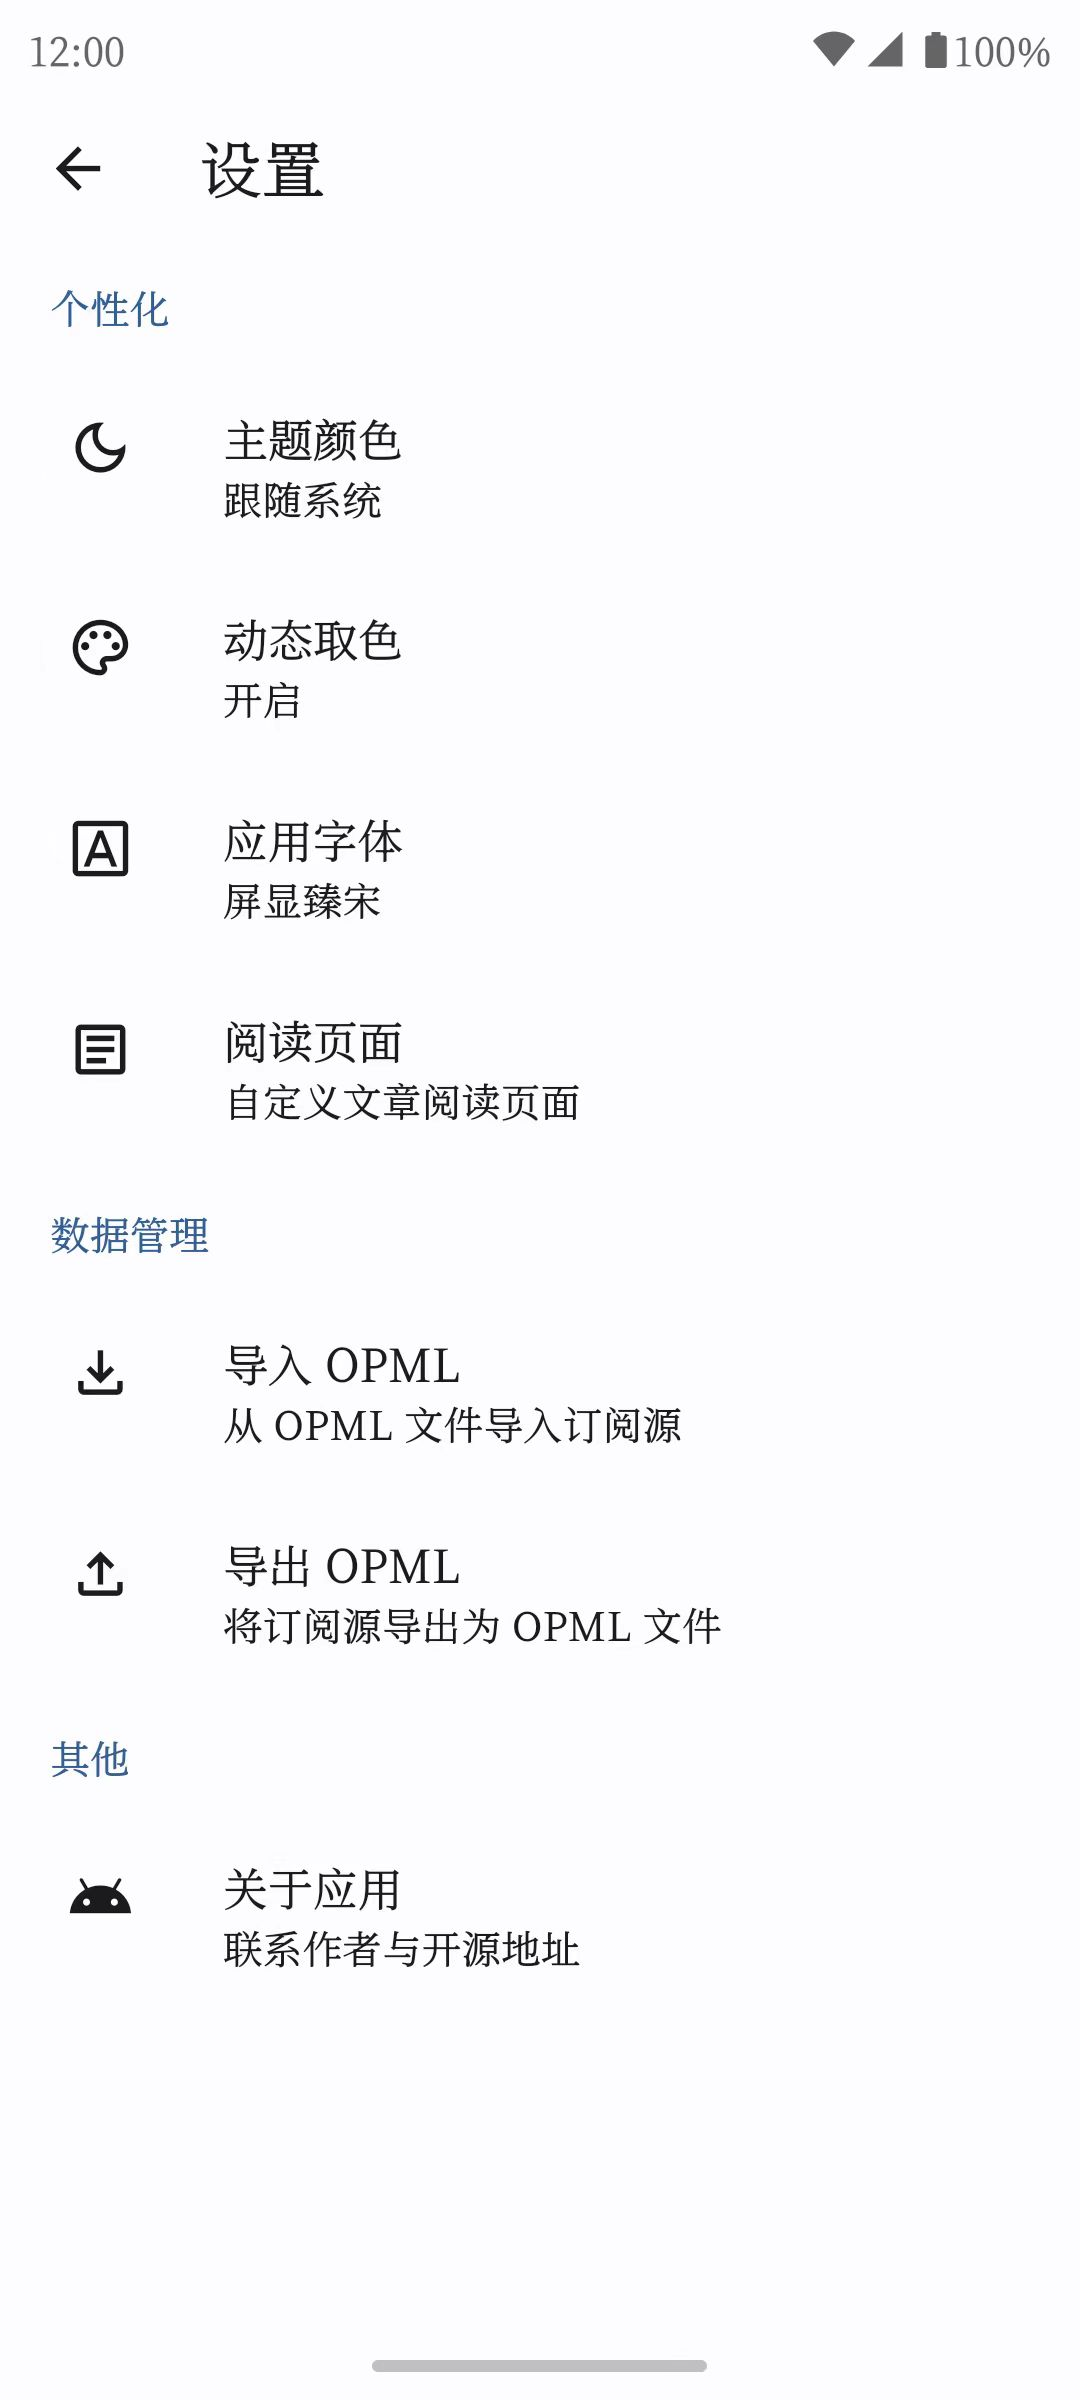
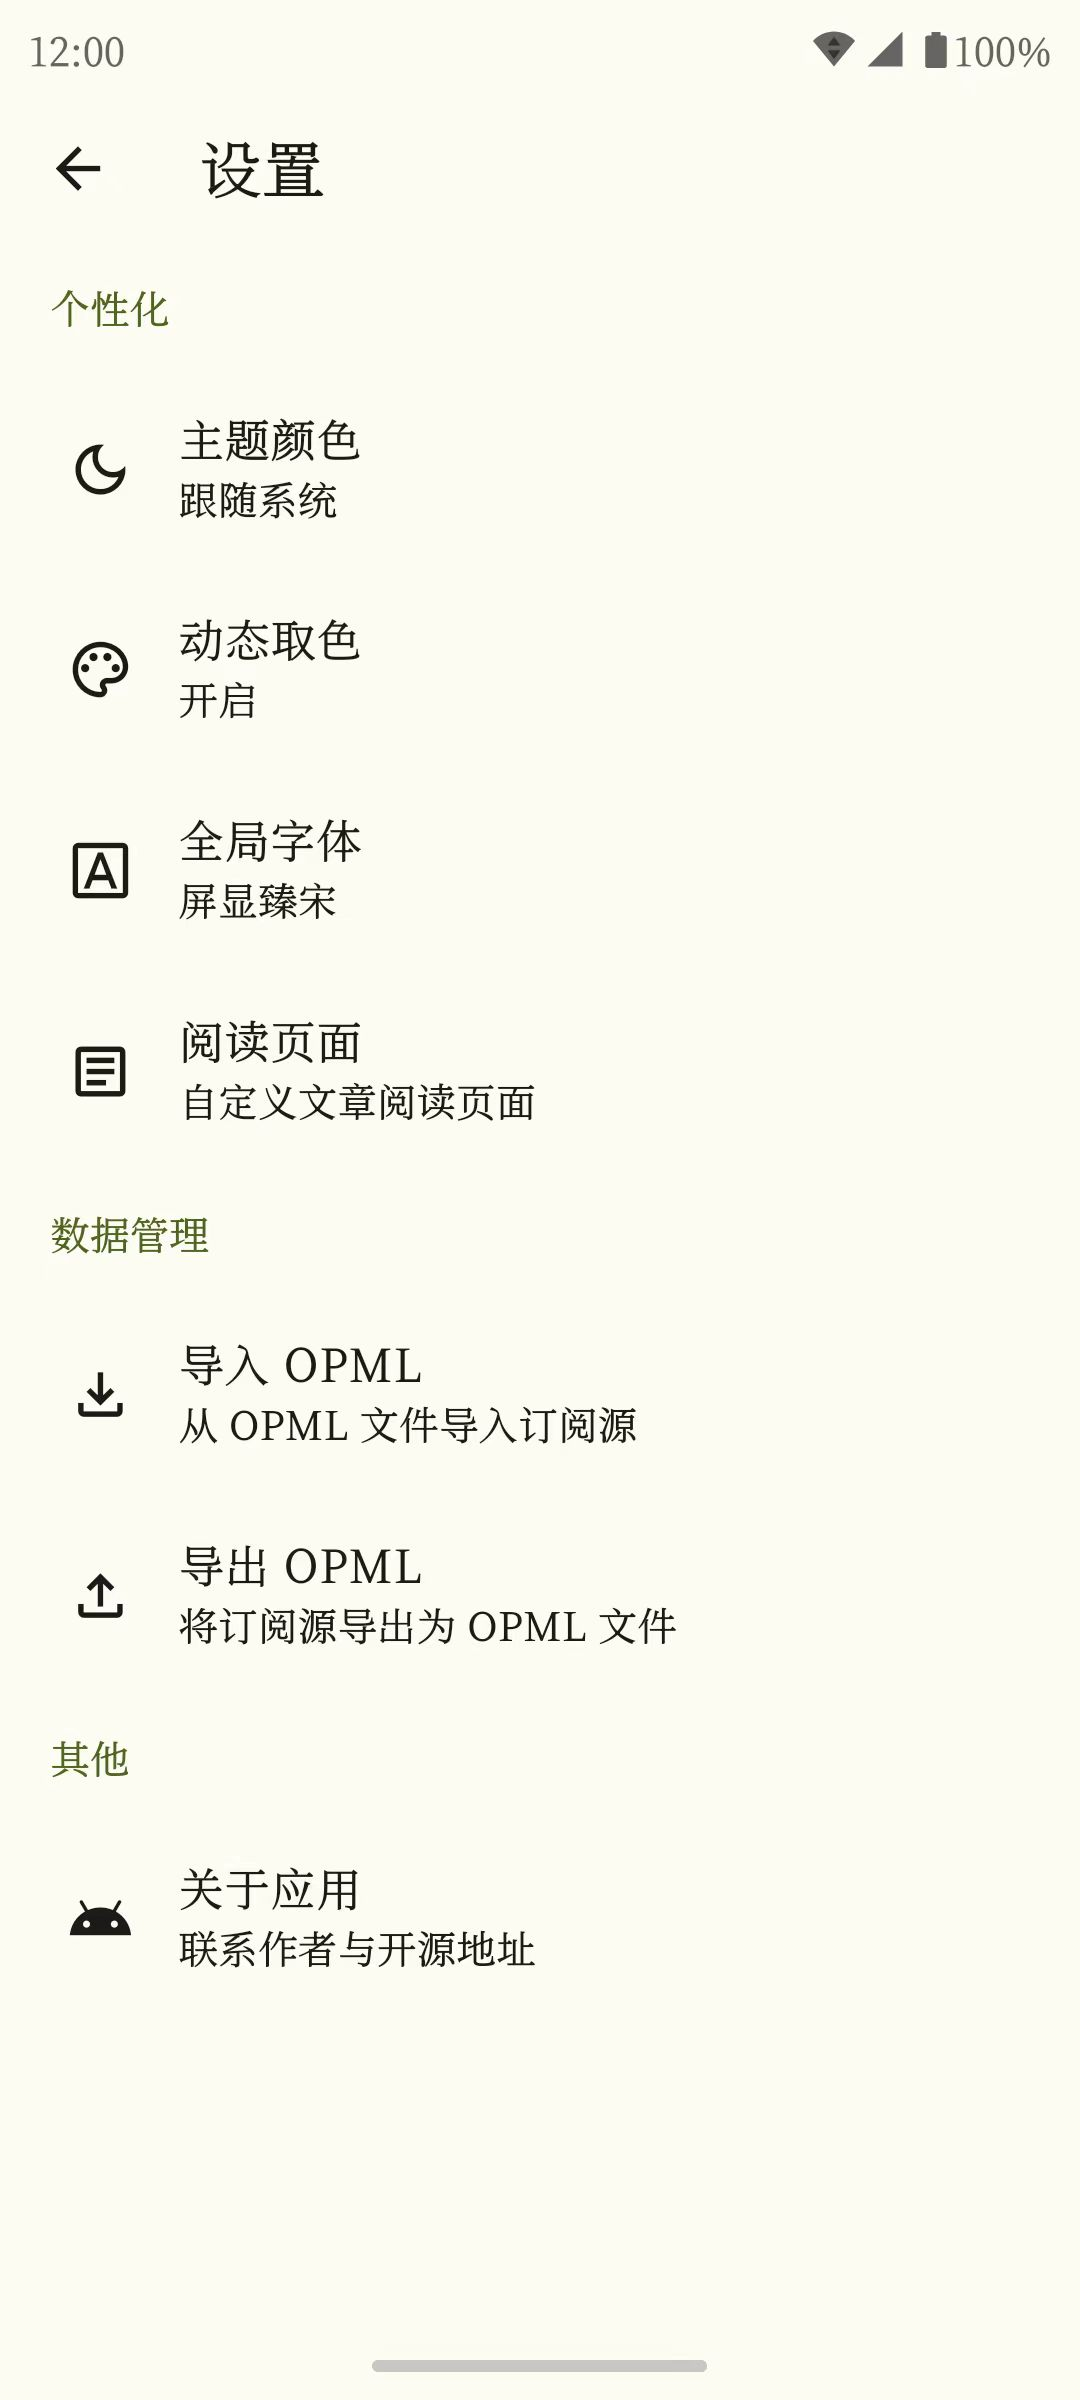
release: v0.4.2

diff --git a/lib/routes/setting_page/about_page/about_page.dart b/lib/routes/setting_page/about_page/about_page.dart
@@ -29,7 +29,7 @@ class AboutPage extends StatelessWidget {
             const SizedBox(height: 8),
             const Center(
               child: Text(
-                'V 0.4.1',
+                'V 0.4.2',
                 style: TextStyle(fontSize: 16),
               ),
             ),

diff --git a/README.md b/README.md
@@ -3,7 +3,7 @@
 <h1>MeRead - 悦读</h1>
 
 </p>
-<strong>简洁、易用的 Feed 阅读器，使用 <a href='https://flutter.dev' target='_blank'>Flutter</a> 构建</strong>
+<strong>简洁、易用的 Feed 阅读器，使用 <a href='https://flutter.dev' target='_blank'>Flutter</a> 构建和 <a href='https://m3.material.io/' target='_blank'>Material You</a> 设计</strong>
 </p>
 
 <p>
@@ -22,20 +22,19 @@
 
 ## 说明
 
-- [x] 支持 RSS、Atom 格式
-- [x] 导入和导出 OPML
-- [x] 获取全文
-- [x] 自定义字体大小、行间距、页面边距、文字对齐
-- [x] 自定义 CSS
+- [x] 通过导入和导出 OPML 迁移订阅源
+- [x] 自动获取全文
 - [x] 三种阅读模式：阅读器、应用内标签页、系统浏览器
-- [x] 未读筛选、文章收藏、订阅源分组
+- [x] 支持未读筛选、文章收藏、订阅源分组
+- [x] 自定义全局字体
+- [x] 自定义阅读页面字体大小、行间距、页面边距、文字对齐、CSS
 - [x] 适配深色模式
 - [x] 适配 Material You，支持壁纸动态取色
 - [ ] 多语言支持
 
 ## 致谢
 
-- [spacecowboy/Feeder](https://gitlab.com/spacecowboy/Feeder)
+MeRead 在功能和设计上参考了开源项目 [spacecowboy/Feeder](https://gitlab.com/spacecowboy/Feeder) ，在此表示感谢。
 
 ## License
 
